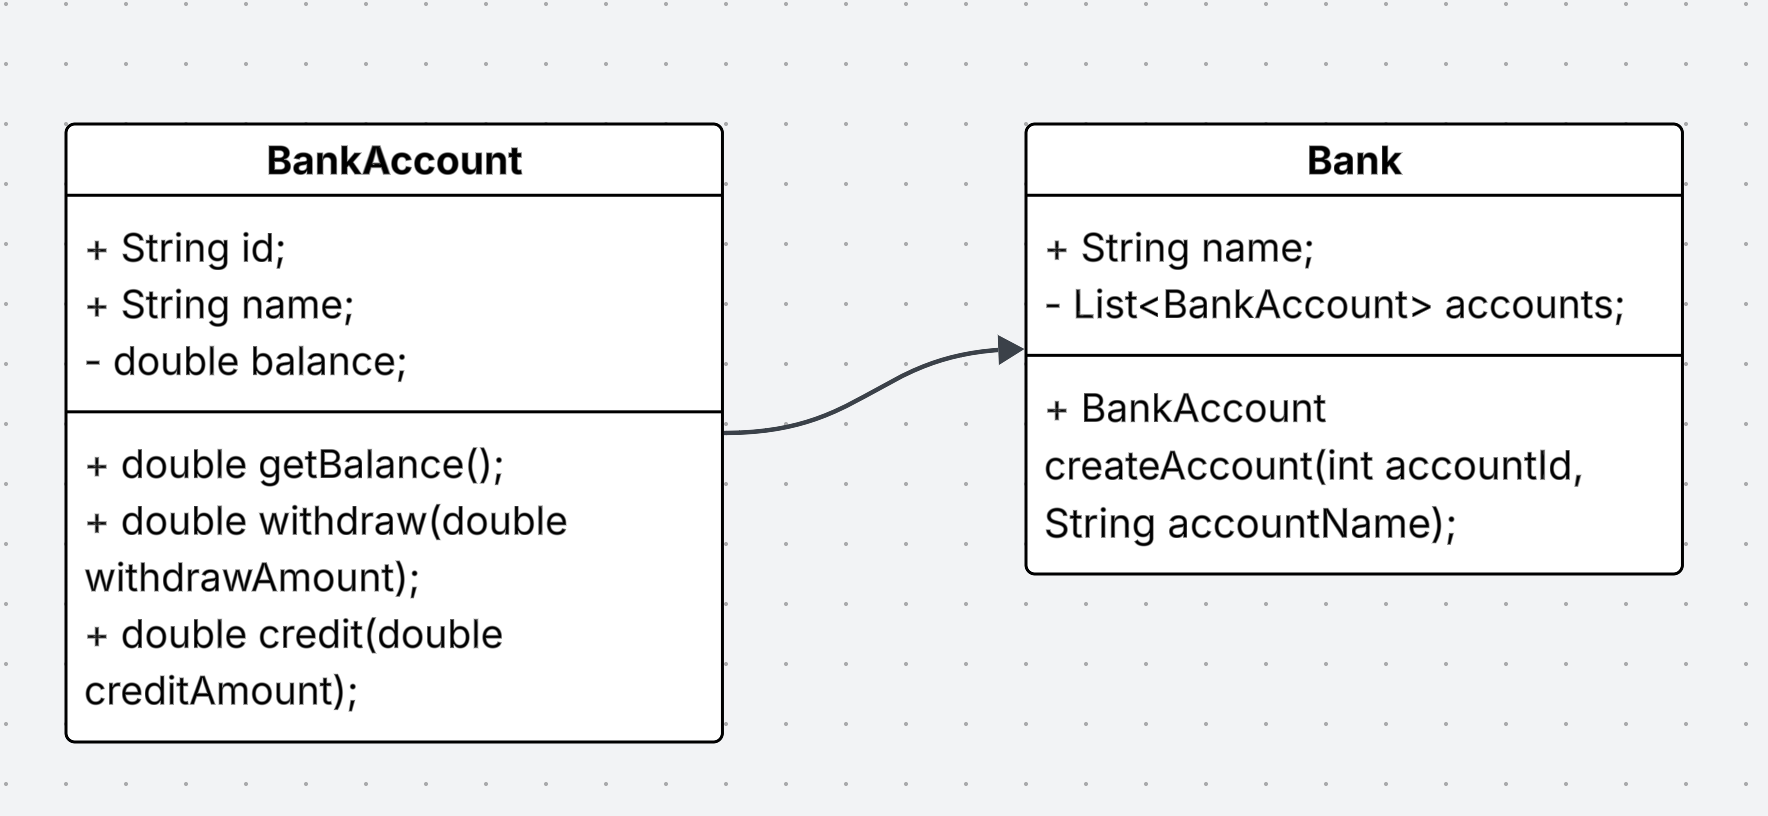
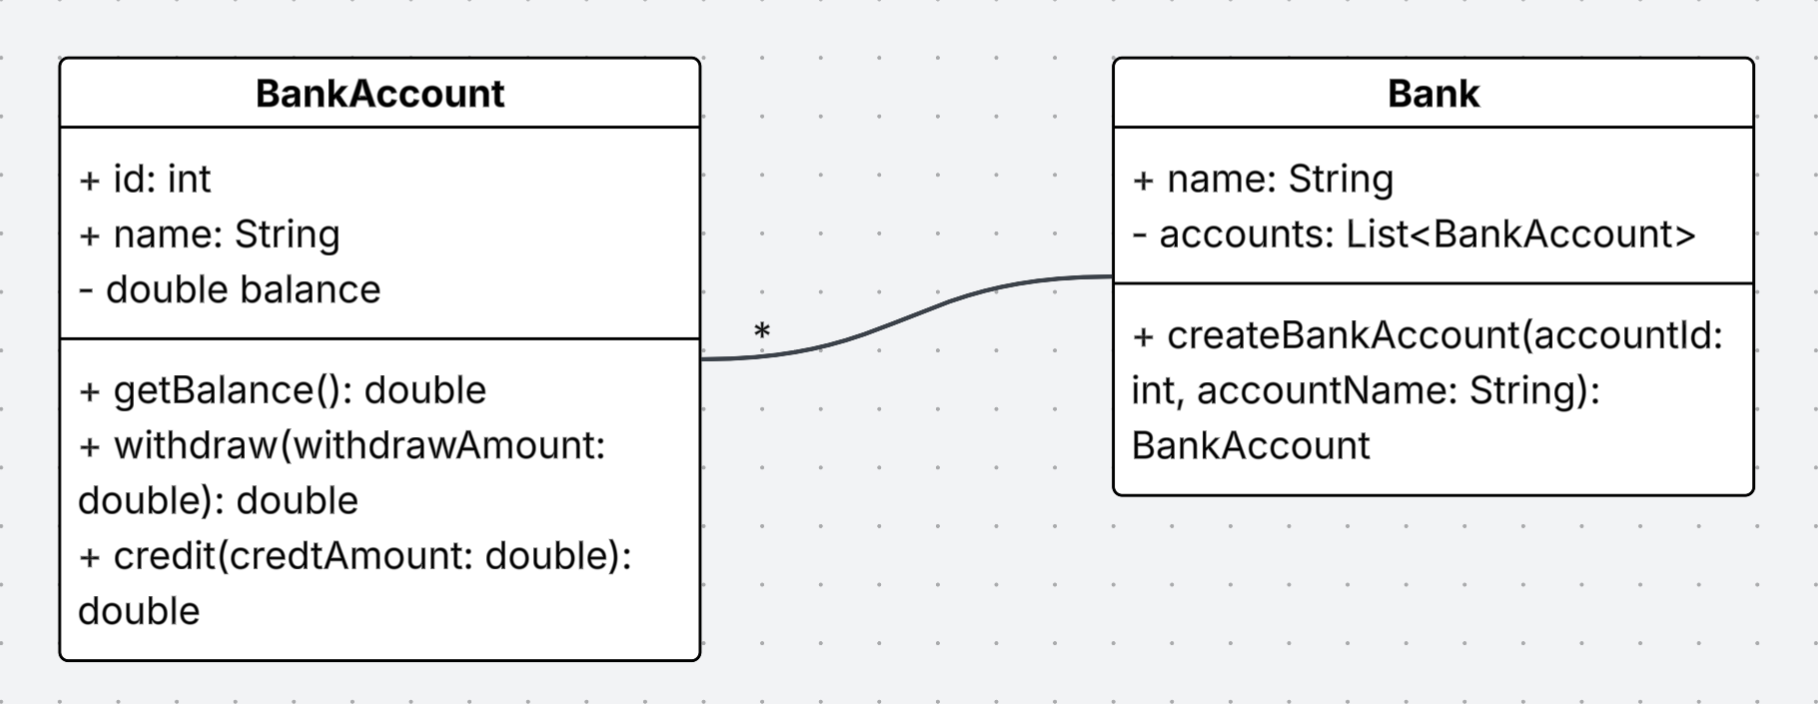
push push

Changed region(s): [[0.0311, 0.0625, 0.9644, 0.9688], [0.9333, 0.6875, 0.9644, 0.7188]]

diff --git a/EX-3.dart b/EX-3.dart
@@ -1,0 +1,46 @@
+class Duration {
+  final int _milliseconds;
+
+  const Duration(this._milliseconds)
+      : assert(_milliseconds > 0, 'Duration must be positive');
+
+  const Duration.fromHour(int hours)
+      : assert(hours > 0, 'Hours must be positive'),
+        _milliseconds = hours * 60 * 60 * 1000;
+
+  const Duration.fromMinute(int minute)
+      : assert(minute > 0, 'Minutes must be positive'),
+        _milliseconds = minute * 60 * 1000;
+
+  const Duration.fromSecond(int second)
+      : assert(second > 0, 'Seconds must be positive'),
+        _milliseconds = second * 1000;
+
+  int get milliseconds => _milliseconds;
+
+  bool operator >(Duration other) => _milliseconds > other._milliseconds;
+
+  Duration operator +(Duration other) {
+    return Duration(_milliseconds + other._milliseconds);
+  }
+
+  Duration operator -(Duration other) {
+    if (_milliseconds - other._milliseconds < 0) {
+      throw ('The result cannot be negative');
+    }
+    return Duration(_milliseconds - other._milliseconds); 
+  }
+
+  @override
+  String toString() {
+    return '${_milliseconds}ms';
+  }
+}
+
+void main() {
+  const d1 = Duration.fromMinute(1);
+  const d2 = Duration(3580);
+
+  print('Sum: ${d1 + d2}');
+  print('Sub: ${d1 - d2}');
+}

diff --git a/EX-2.dart b/EX-2.dart
@@ -1,6 +1,6 @@
 class BankAccount {
   // TODO
-  String id;
+  int id;
   String name;
   double _balance;
 
@@ -31,7 +31,8 @@ class BankAccount {
       print('Credit amount must be positive.');
       return _balance;
     }
-    return _balance + creditAmount;
+    _balance += creditAmount; 
+    return _balance;
   }
 }
 
@@ -42,7 +43,7 @@ class Bank {
 
   Bank({required this.name});
 
-  BankAccount createAccount(String accountId, String accountName) {
+  BankAccount createAccount(int accountId, String accountName) {
     for (var account in _accounts) {
       if (account.id == accountId) {
         throw Exception('Account with ID $accountId already exists!');
@@ -60,7 +61,7 @@ class Bank {
 
 void main() {
   Bank myBank = Bank(name: "CADT Bank");
-  BankAccount ronanAccount = myBank.createAccount('a0011', 'Ronan');
+  BankAccount ronanAccount = myBank.createAccount(1, 'Ronan');
 
   print(ronanAccount.balance); // Balance: $0
   ronanAccount.credit(100);
@@ -75,7 +76,7 @@ void main() {
   }
 
   try {
-    myBank.createAccount('011', 'Honlgy'); // This will throw an exception
+    myBank.createAccount(1, 'Honlgy'); // This will throw an exception
   } catch (e) {
     print(e); // Output: Account with ID 100 already exists!
   }

diff --git a/EX-4.dart b/EX-4.dart
@@ -1,0 +1,4 @@
+
+void main() {
+  
+}
